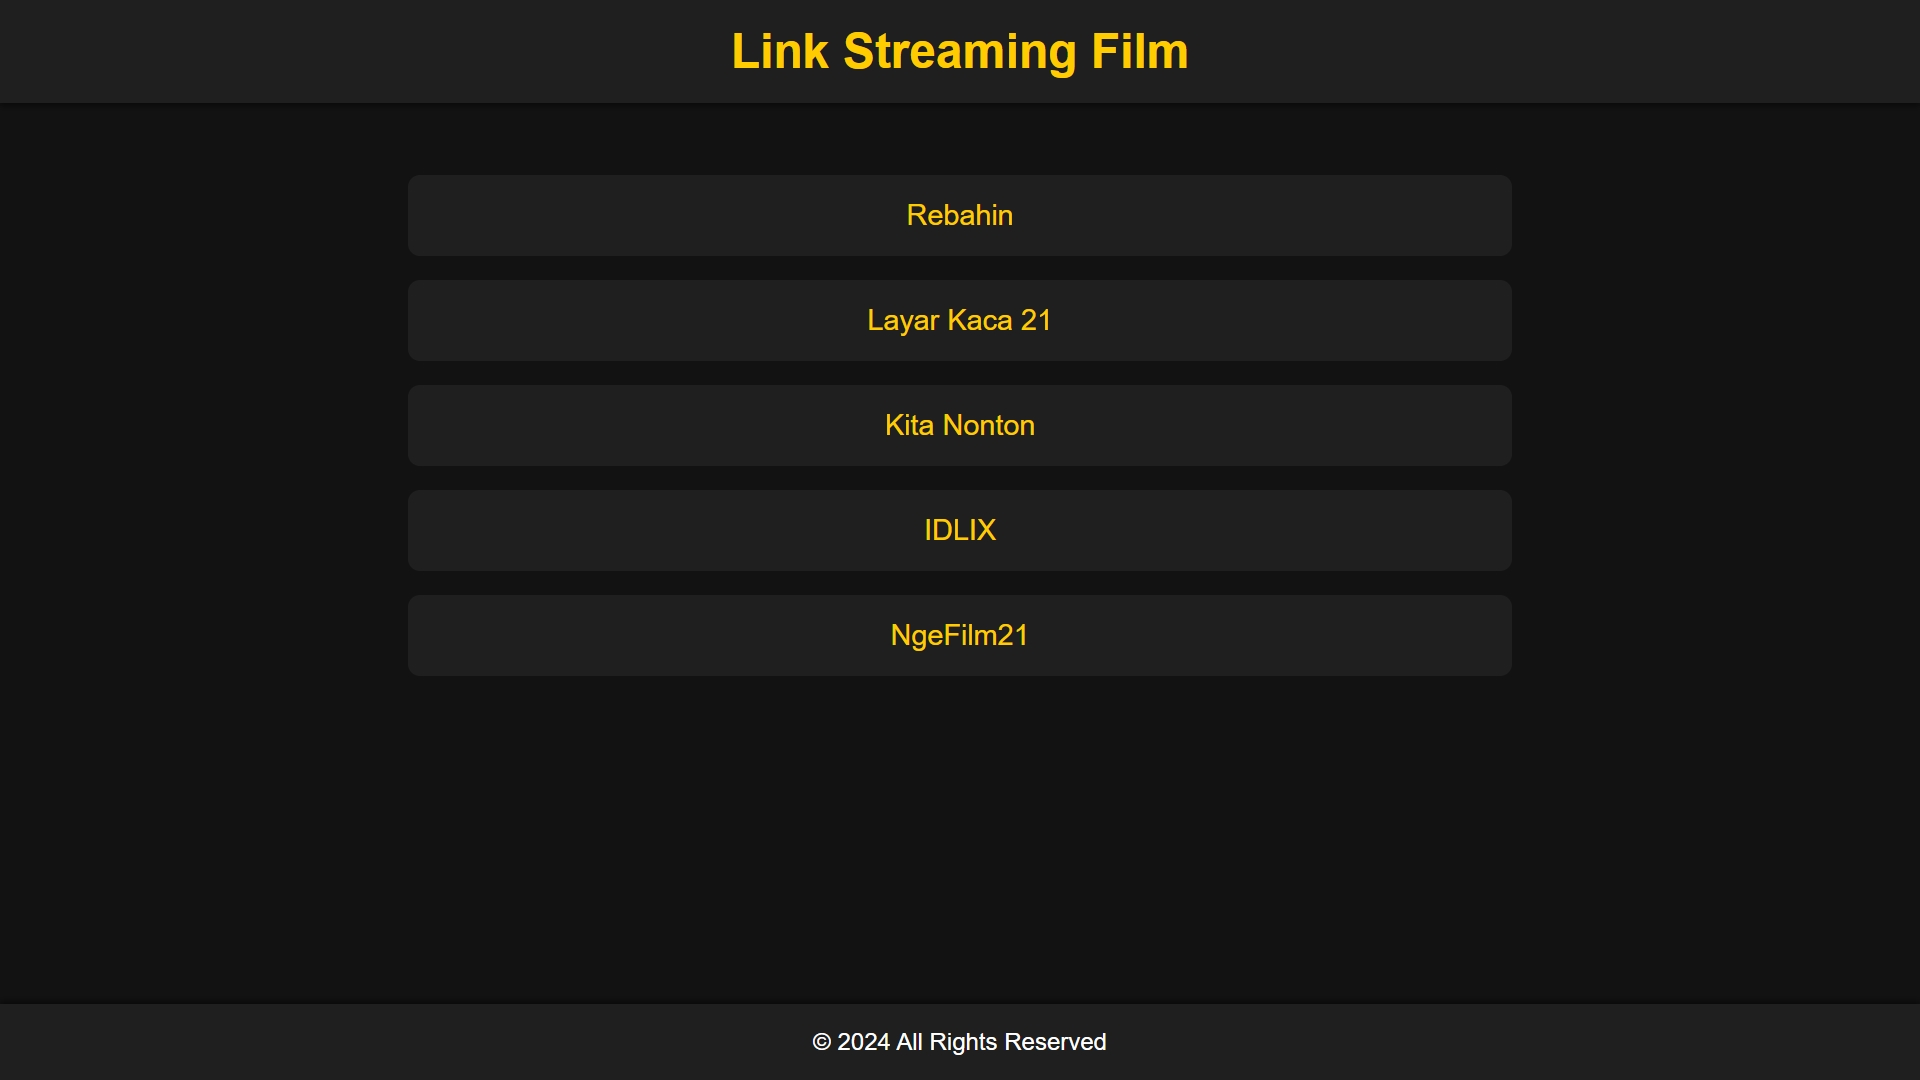
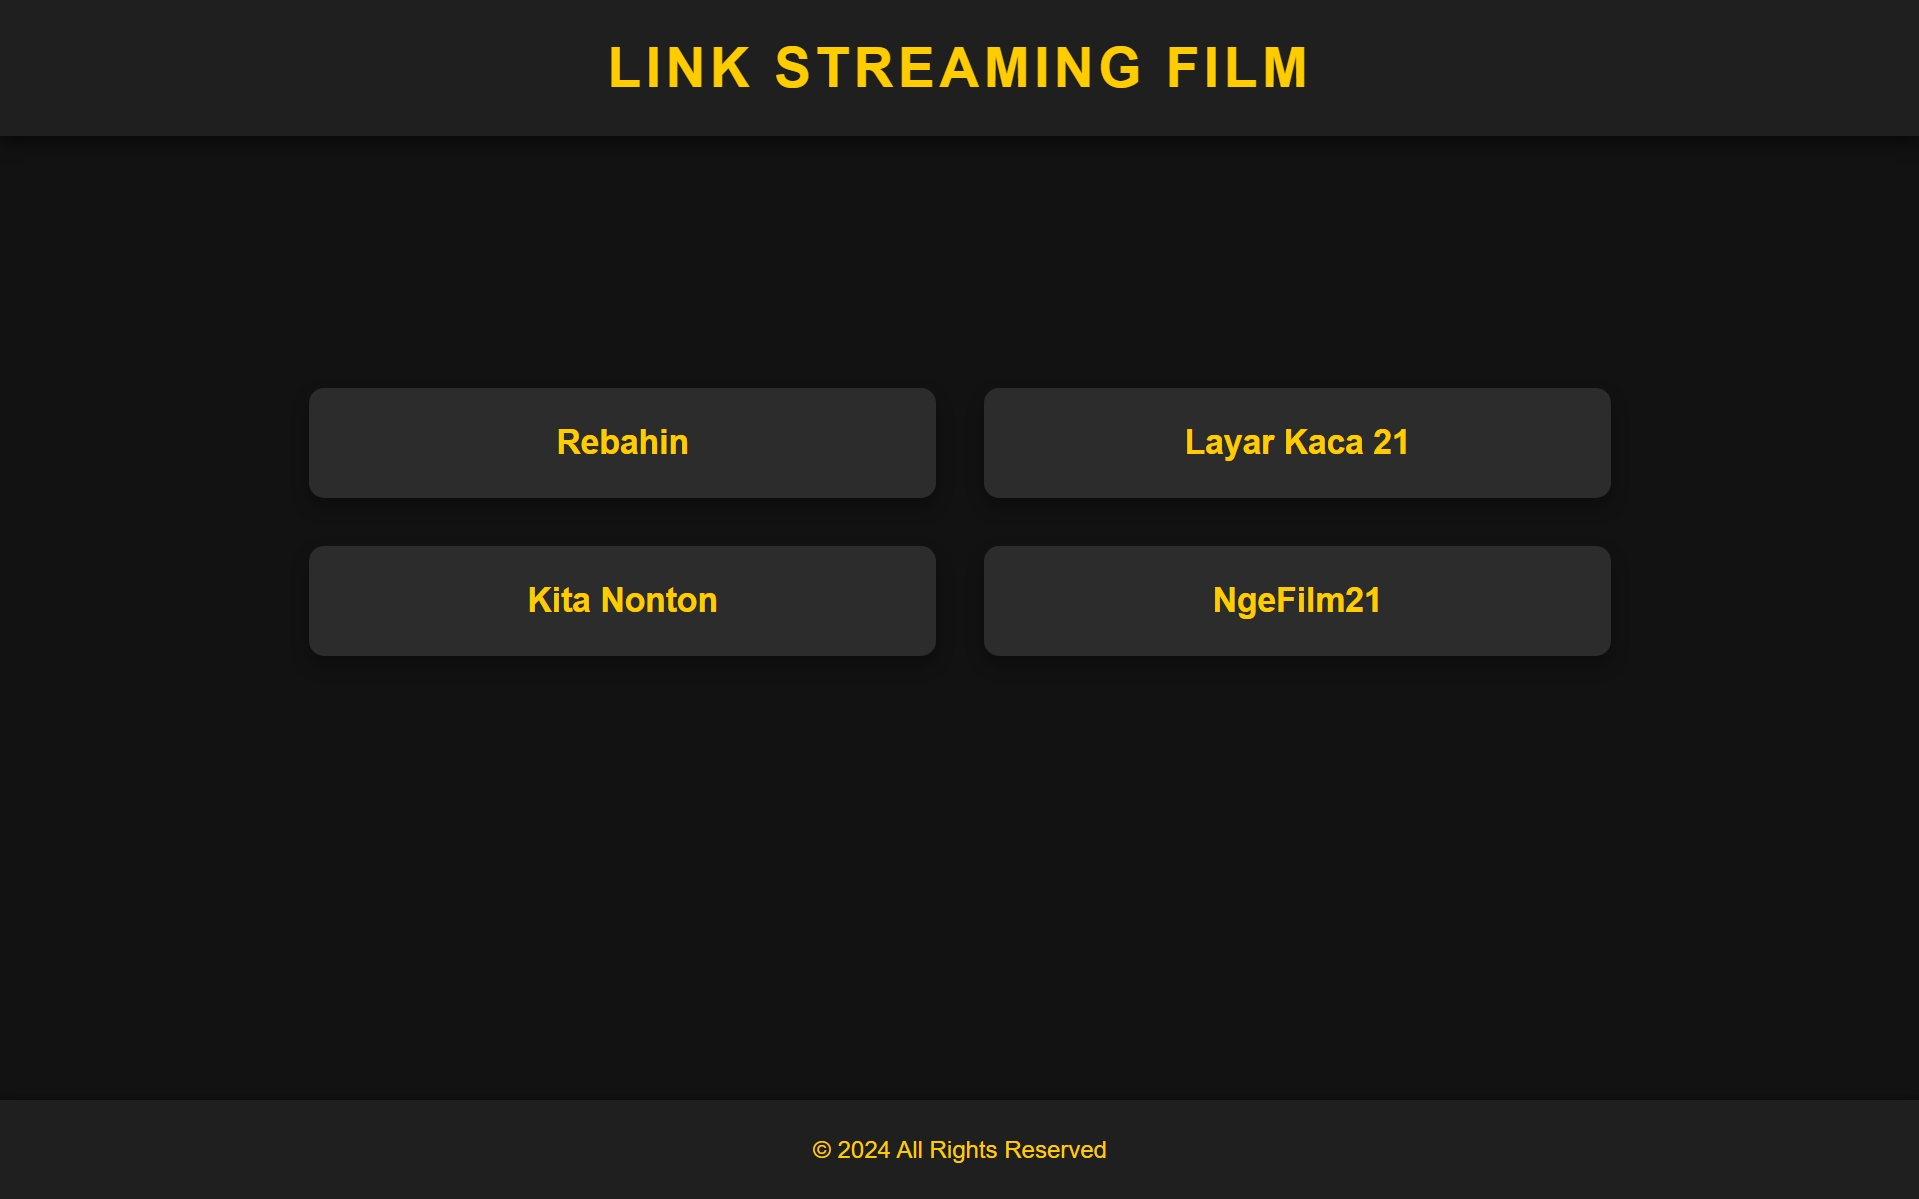
Big-Update-19/01/25

diff --git a/assets/css/style.css b/assets/css/style.css
@@ -1,99 +1,109 @@
-/* Style CSS yang diperbarui */
 * {
   box-sizing: border-box;
   margin: 0;
   padding: 0;
 }
+
 body {
   background-color: #121212;
   color: #ffffff;
-  font-family: Arial, sans-serif;
+  font-family: 'Arial', sans-serif;
   display: flex;
   flex-direction: column;
   align-items: center;
-  overflow-x: hidden;
+  justify-content: space-between;
   min-height: 100vh;
+  padding: 0;
+  margin: 0;
+  user-select: none;
 }
+
 header {
-  background-color: #1f1f1f;
   width: 100%;
-  padding: 1rem;
+  padding: 1.5rem 0;
   text-align: center;
-  box-shadow: 0 2px 4px rgba(0, 0, 0, 0.5);
-  position: relative;
+  background-color: #1f1f1f;
+  box-shadow: 0 4px 10px rgba(0, 0, 0, 0.6);
+  margin-bottom: 2rem;
+}
+
+h1 {
+  font-size: 2.5rem;
+  color: #ffcc00;
+  letter-spacing: 3px;
+  margin: 0;
+  text-transform: uppercase;
+}
+
+main {
+  width: 100%;
+  max-width: 900px;
+  padding: 2.5rem 1rem;
+  margin-top: -10rem;
   display: flex;
+  flex-direction: column;
   align-items: center;
   justify-content: center;
+  gap: 2rem;
 }
-h1 {
-  margin: 0;
+
+.film-links {
+  display: grid;
+  gap: 2rem;
+  grid-template-columns: repeat(2, 1fr);
+  width: 100%;
+  margin: 0 auto;
+}
+
+.film-links a {
+  padding: 1.5rem;
+  background-color: #2c2c2c;
   color: #ffcc00;
-  transition: color 0.3s;
-}
-main {
-  padding: 2rem;
-  display: flex;
-  flex-direction: column;
-  align-items: center;
-  width: 100%;
-  max-width: 800px;
-  flex-grow: 1;
-}
-ul {
-  list-style: none;
-  padding: 0;
-  width: 100%;
+  font-size: 1.4rem;
+  font-weight: bold;
   text-align: center;
-  margin: 0;
-}
-li {
-  margin: 1rem 0;
-  padding: 1rem;
-  background-color: #1f1f1f;
-  border-radius: 8px;
-  transition: transform 0.3s, background-color 0.3s, opacity 0.3s;
-  max-width: 100%;
-}
-li:hover {
-  transform: scale(1.05);
-  background-color: #333333;
-}
-a {
   text-decoration: none;
-  color: #ffcc00;
-  font-size: 1.2rem;
-  display: inline-block;
-  width: 100%;
-  overflow-wrap: break-word;
-  transition: color 0.3s;
+  border-radius: 10px;
+  box-shadow: 0 6px 12px rgba(0, 0, 0, 0.3);
+  transition: all 0.3s ease;
 }
-a:hover {
-  color: #ffffff;
+
+.film-links a:hover {
+  background-color: #ffcc00;
+  color: #1f1f1f;
+  transform: translateY(-5px);
+  box-shadow: 0 8px 16px rgba(0, 0, 0, 0.5);
 }
+
 footer {
-  background-color: #1f1f1f;
   width: 100%;
-  padding: 1rem;
+  padding: 1.5rem;
+  background-color: #1f1f1f;
   text-align: center;
-  box-shadow: 0 -2px 4px rgba(0, 0, 0, 0.5);
-  display: flex;
-  flex-direction: column;
-  align-items: center;
+  box-shadow: 0 -2px 4px rgba(0, 0, 0, 0.3);
 }
+
+footer p {
+  font-size: 1rem;
+  color: #ffcc00;
+}
+
 @media (max-width: 600px) {
   header {
-    padding: 1rem;
+    padding: 1rem 0;
   }
-  .logo {
-    width: 40px;
-  }
+
   h1 {
-    font-size: 1.5rem;
+    font-size: 2rem;
   }
-  main {
+
+  .film-links {
+    grid-template-columns: 1fr;
+    gap: 1rem;
+  }
+
+  .film-links a {
+    font-size: 1.2rem;
     padding: 1rem;
-  }
-  a {
-    font-size: 1rem;
   }
 }

diff --git a/index.html b/index.html
@@ -3,10 +3,7 @@
   <head>
     <meta charset="UTF-8" />
     <meta name="viewport" content="width=device-width, initial-scale=1.0" />
-    <meta
-      name="description"
-      content="Link streaming film terbaru dan terbaik"
-    />
+    <meta name="description" content="Link streaming film terbaru dan terbaik" />
     <meta name="keywords" content="streaming film, film terbaru, film online" />
     <meta name="author" content="Muhammad Raid Zakwan" />
     <link rel="shortcut icon" href="assets/images/favicon/favicon.ico" />
@@ -18,44 +15,17 @@
       <h1>Link Streaming Film</h1>
     </header>
     <main>
-      <ul id="film-sites">
-        <li>
-          <a
-            href="http://179.43.163.50/"
-            target="_blank"
-            aria-label="Link to Rebahin"
-            >Rebahin</a
-          >
-        </li>
-        <li>
-          <a
-            href="https://D21.Fun/"
-            target="_blank"
-            aria-label="Link to Layar Kaca 21"
-            >Layar Kaca 21</a
-          >
-        </li>
-        <li>
-          <a
-            href="http://124.150.139.91/"
-            target="_blank"
-            aria-label="Link to Kita Nonton"
-            >Kita Nonton</a
-          >
-        </li>
-        <li>
-          <a
-            href="https://ngefilm21.pw/"
-            target="_blank"
-            aria-label="Link to NgeFilm21"
-            >NgeFilm21</a
-          >
-        </li>
-      </ul>
+      <div class="film-links">
+        <a href="http://179.43.163.50/" target="_blank" aria-label="Link to Rebahin">Rebahin</a>
+        <a href="https://D21.Fun/" target="_blank" aria-label="Link to Layar Kaca 21">Layar Kaca 21</a>
+        <a href="http://124.150.139.91/" target="_blank" aria-label="Link to Kita Nonton">Kita Nonton</a>
+        <a href="https://ngefilm21.pw/" target="_blank" aria-label="Link to NgeFilm21">NgeFilm21</a>
+      </div>
     </main>
     <footer>
       <p>© 2024 All Rights Reserved</p>
     </footer>
+
     <script src="assets/JS/main.js"></script>
   </body>
 </html>

diff --git a/assets/JS/main.js b/assets/JS/main.js
@@ -1,14 +1,11 @@
-document.addEventListener("DOMContentLoaded", () => {
-  const links = document.querySelectorAll("#film-sites a");
+document.addEventListener('contextmenu', function (e) {
+  e.preventDefault();
+});
 
-  // Menambahkan efek hover pada link
-  links.forEach((link) => {
-    link.addEventListener("mouseover", () => {
-      link.style.color = "#ffffff";
-    });
+document.addEventListener('selectstart', function (e) {
+  e.preventDefault();
+});
 
-    link.addEventListener("mouseout", () => {
-      link.style.color = "#ffcc00";
-    });
-  });
-})
+document.addEventListener('copy', function (e) {
+  e.preventDefault();
+});
